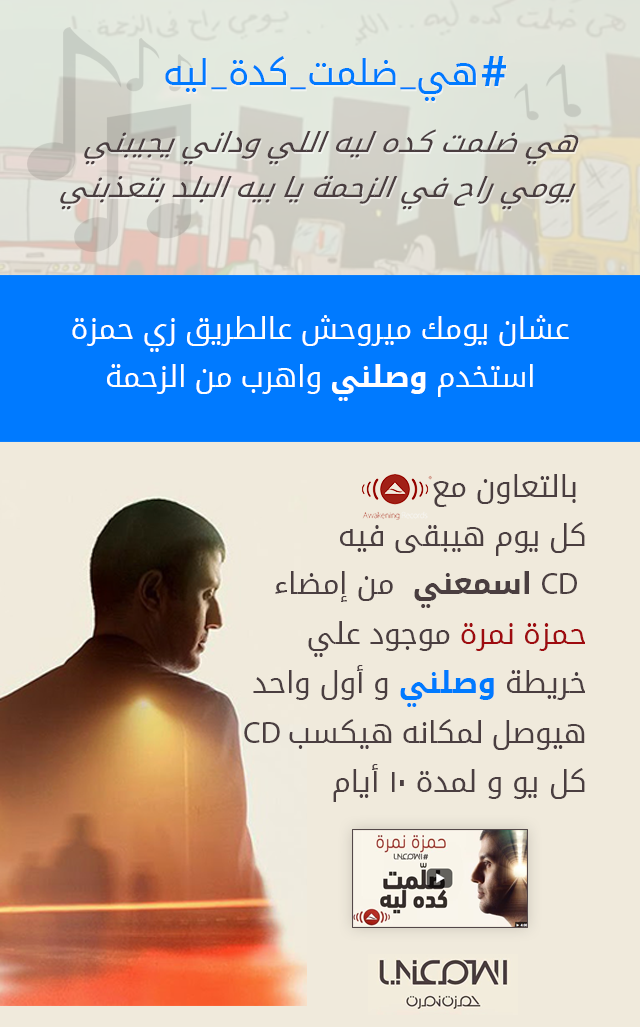
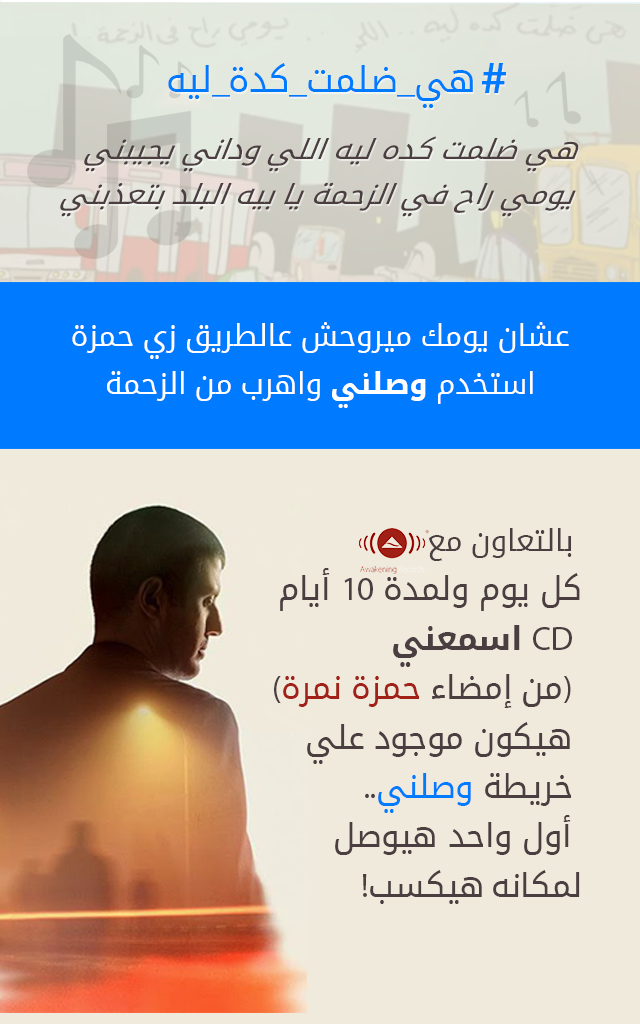
edits

diff --git a/Egypt/Hamza/esmani.html b/Egypt/Hamza/esmani.html
@@ -36,7 +36,12 @@ and (max-device-width : 1024px) {
 <div style="width:100%; margin-right:auto; margin-bottom:20px;">
 <img src="images/1.png" style="width: 100%; "/>
 </div>
-<div style="width:100%; margin-right:auto; padding-top:40px; padding-bottom:40px;">
+<div style="width:100%; margin-right:auto; padding-top:10px; padding-bottom:0px;">
+<a href="http://bit.ly/1FKo0KF">
+<img src="images/img2.png" style="width: 85%;"/> 
+</a>
+</div>
+<div style="width:100%; margin-right:auto; padding-top:0px; padding-bottom:20px;">
 <img src="images/2.png" style="width: 85%;"/>
 </div>
 <div style="width:100%; margin-right:auto; margin-top:30px; margin-bottom:30px;">
